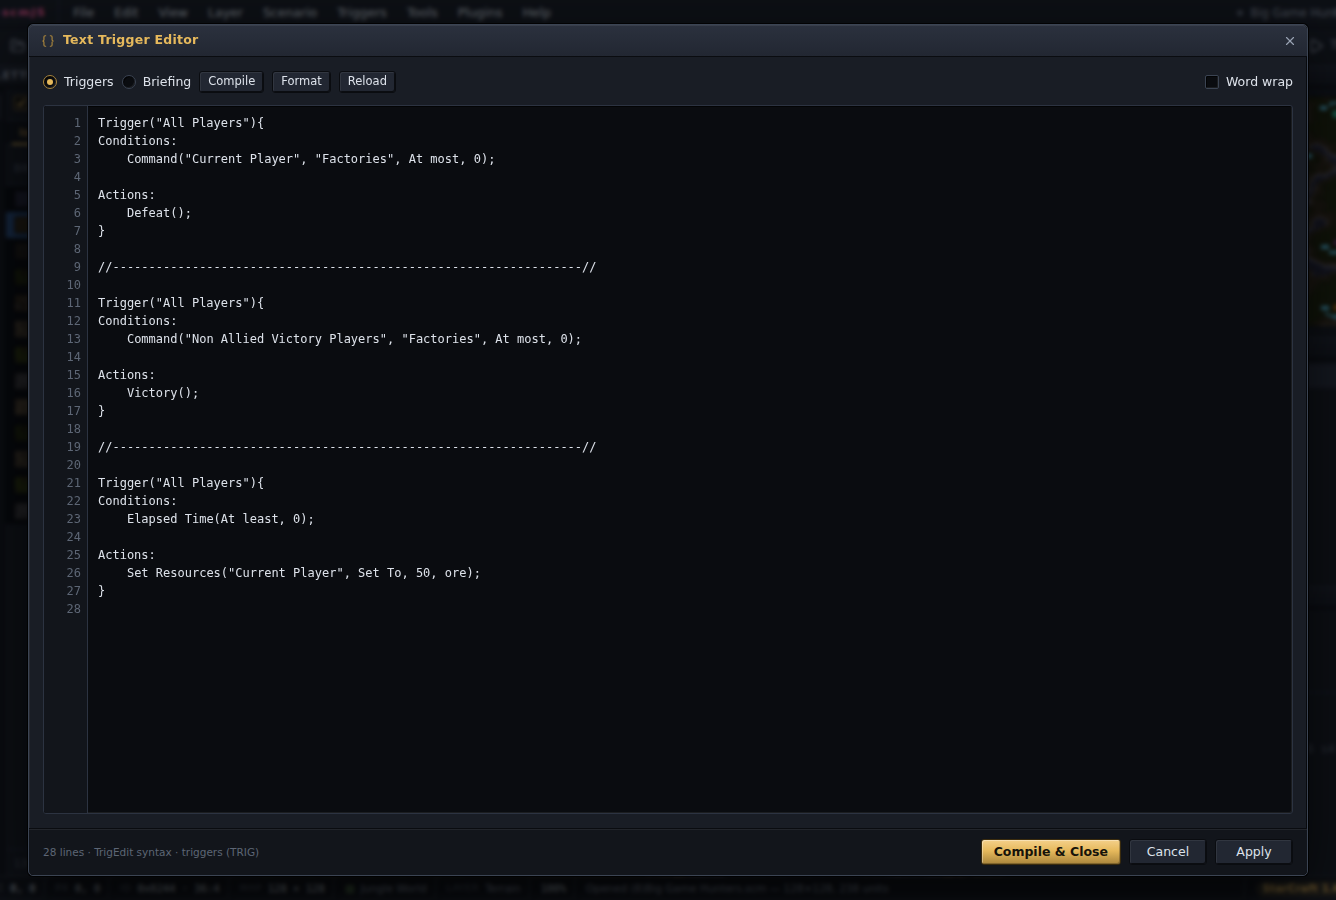
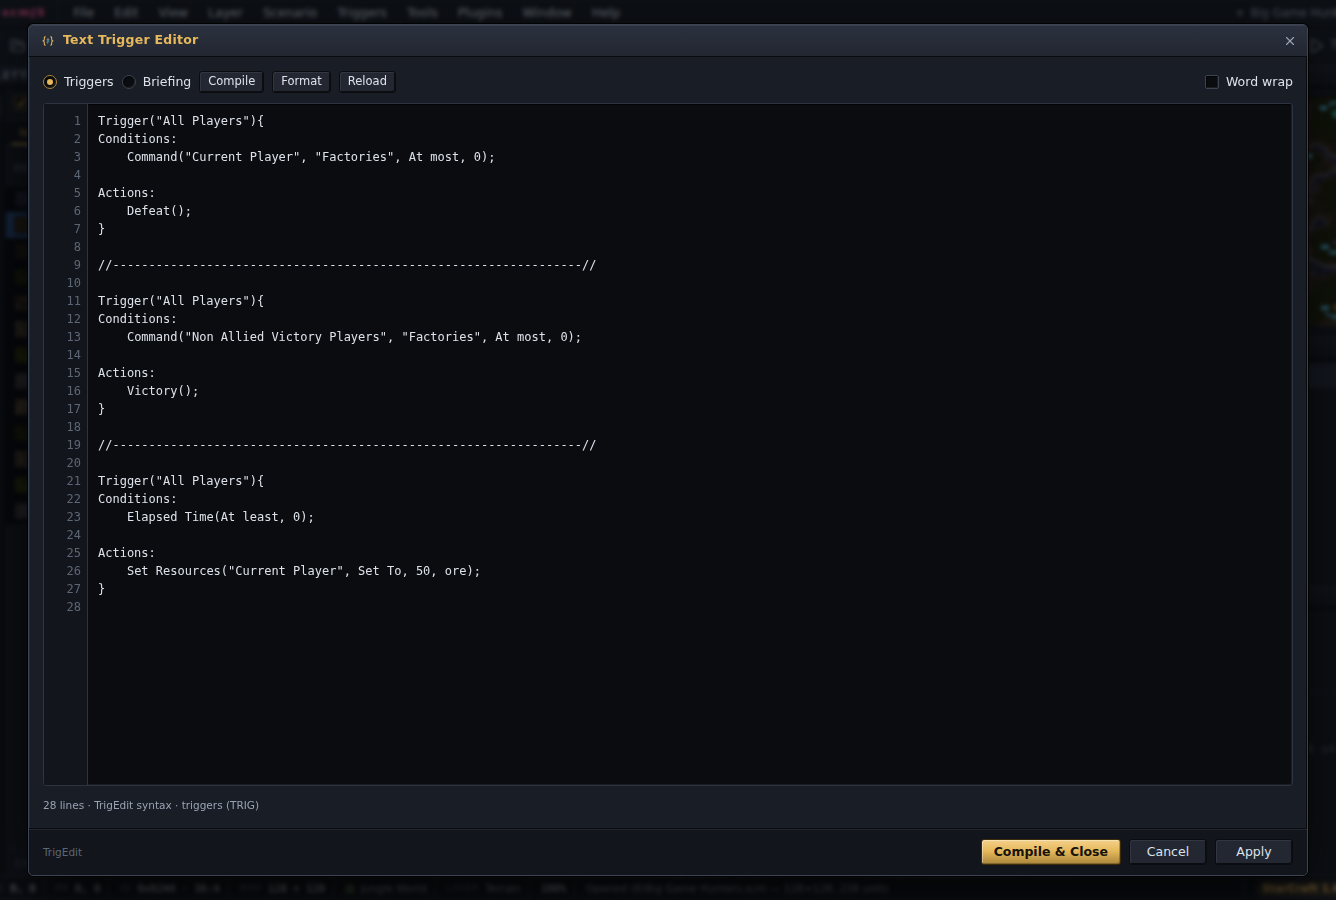
The Text Trigger Editor is the TrigEdit plugin, a default pinned to v1.0.0
The dialog moves out to github.com/scm-js/plugin-trigedit; the TrigEdit
text format stays here, since Import / Export, the plugin API and the AI
all read it. The plugin reproduces the dialog over api.triggers.text,
tx.triggers.fromText({ replace }) and api.triggers.claims, and offers the
"trigedit.text" slot in place of the built-in dialog's; scmjs.dev moves to
v1.14.5, which mounts its Explain / Write / Ask buttons there. Menu item,
Ctrl+Shift+T, the Shortcuts row, the dialog id and its CSS go with it, and
TrigEdit sits before TrigScript in the defaults so the latter's menu anchor
is there when it activates.

Claude-Session: https://claude.ai/code/session_018MPFAP9buLe6adi4NrYbr7

diff --git a/src/components/dialogs/TriggerDialogs.tsx b/src/components/dialogs/TriggerDialogs.tsx
@@ -1,21 +1,19 @@
 /**
- * The three trigger editors over `scenario.triggers` / `scenario.briefing`:
+ * The two trigger editors over `scenario.triggers` / `scenario.briefing`: Classic
+ * (StarEdit-style forms) and Mission Briefing share `TriggerListEditor`, a three-pane
+ * list ▸ trigger ▸ condition/action editor whose argument widgets are driven entirely by
+ * `data/triggerDefs.ts`. The third, the Text Trigger Editor (TrigEdit syntax), is the
+ * TrigEdit plugin (`github.com/scm-js/plugin-trigedit`) over `api.triggers.text`.
  *
- * - Classic (StarEdit-style forms) and Mission Briefing share `TriggerListEditor`, a
- *   three-pane list ▸ trigger ▸ condition/action editor whose argument widgets are driven
- *   entirely by `data/triggerDefs.ts`.
- * - Text (TrigEdit syntax) prints the list through `formats/triggers/text.ts` and parses
- *   it back on Compile.
- *
- * All three are dialog transactions (OK / Apply / Cancel over a working copy) like the
+ * Both are dialog transactions (OK / Apply / Cancel over a working copy) like the
  * settings dialogs, committed through `commitTriggersAtom`.
  */
 import { useMemo, useState, type ReactNode } from "react";
 import { useAtomValue, useSetAtom } from "jotai";
-import { ArrowDown, ArrowUp, Braces, Code2, Copy, MessageSquare, Plus, Trash2, Zap } from "lucide-react";
+import { ArrowDown, ArrowUp, Code2, Copy, MessageSquare, Plus, Trash2, Zap } from "lucide-react";
 import { commitTriggersAtom, locationsRevisionAtom, scenarioAtom, settingsRevisionAtom, triggersRevisionAtom } from "../../atoms/documentAtoms";
 import { pluginTriggerClaimsAtom, type PluginTriggerClaim } from "../../atoms/pluginAtoms";
-import { closeDialogAtom, openDialogAtom } from "../../atoms/uiAtoms";
+import { openDialogAtom } from "../../atoms/uiAtoms";
 import { claimAt, claimBadge, claimDescription, locateClaims, type ClaimedRange } from "../../plugins/claims";
 import {
   ACTION_DEFS, AI_SCRIPT_CHOICES, aiScriptCode, aiScriptId, BRIEFING_ACTION_DEFS, CHOICES, CONDITION_DEFS, DEATHS_TABLE_ADDRESS, PLAYER_GROUP_CHOICES,
@@ -27,7 +25,7 @@ import {
   ActionFlag, ConditionFlag, ConditionType, MAX_ACTIONS, MAX_CONDITIONS, PlayerGroup, SWITCH_COUNT, cloneTrigger,
   type ActionRecord, type ConditionRecord, type TriggerRecord,
 } from "../../formats/chk/sections/triggers";
-import { formatAction, formatCondition, formatTriggers, parseTriggers, summarizeTrigger, TriggerTextError, triggerComment, withComment, type TriggerNames } from "../../formats/triggers/text";
+import { formatAction, formatCondition, summarizeTrigger, triggerComment, withComment, type TriggerNames } from "../../formats/triggers/text";
 import { cuwpSlotLabel, CUWP_SLOTS } from "../../editor/cuwp";
 import { usedLocations } from "../../editor/locations";
 import { unitCustomName } from "../../editor/settings";
@@ -569,112 +567,6 @@ export function MissionBriefingDialog({ entry }: DialogProps) {
       footerLeft={<span>{local.length} briefing{local.length === 1 ? "" : "s"} · one per player, played before the map starts</span>}
     >
       <TriggerListEditor list={local} setList={setLocal} briefing names={names} scenario={scenario} initial={typeof entry.payload?.index === "number" ? entry.payload.index : undefined} />
-    </DialogFrame>
-  );
-}
-
-/* ── Text Trigger Editor (TrigEdit) ─────────────────────── */
-
-/** The map's triggers as text, with every plugin-generated run fenced in comments (parsed back as plain triggers). */
-function textOf(scn: Scenario, ranges: ClaimedRange[]): string {
-  const names = triggerNames(scn);
-  const runs = ranges.filter((r) => r.count > 0);
-  if (runs.length === 0) return formatTriggers(scn.triggers, names);
-  const parts: string[] = [];
-  let at = 0;
-  for (const { claim, start, count } of runs) {
-    if (start < at) continue; // overlapping claims: the first wins
-    parts.push(formatTriggers(scn.triggers.slice(at, start), names));
-    parts.push(`//== Generated by ${claim.spec.label}: ${count} trigger${count === 1 ? "" : "s"}. Edit them there instead — changes here take them out of its hands. ==//\n\n`);
-    parts.push(formatTriggers(scn.triggers.slice(start, start + count), names));
-    parts.push("//== End of the generated run ==//\n");
-    at = start + count;
-  }
-  parts.push(formatTriggers(scn.triggers.slice(at), names));
-  return parts.filter((p) => p !== "").join("\n");
-}
-
-/**
- * The Text Trigger Editor edits either list: TRIG, or — with `payload.briefing` or the
- * Briefing tab — MBRF in the same syntax with the briefing action set. Switching tabs
- * re-reads the map, so compile (Apply) first.
- */
-export function TextTriggerEditorDialog({ entry }: DialogProps) {
-  const scenario = useAtomValue(scenarioAtom);
-  useAtomValue(triggersRevisionAtom);
-  const claims = useAtomValue(pluginTriggerClaimsAtom);
-  const commit = useSetAtom(commitTriggersAtom);
-  const close = useSetAtom(closeDialogAtom);
-  const names = useNames(scenario);
-  const [briefing, setBriefing] = useState(entry.payload?.briefing === true);
-  const sourceOf = (scn: Scenario, brief: boolean) => (brief ? formatTriggers(scn.briefing, triggerNames(scn), true) : textOf(scn, locateClaims(claims, scn.triggers)));
-  const [form, setForm] = useScenarioForm(scenario, (scn) => ({ text: sourceOf(scn, briefing), error: null as TriggerTextError | null, status: "" }));
-  const [wrap, setWrap] = useState(false);
-  if (!scenario || !form || !names) return <NoMap entry={entry} title="Text Trigger Editor" icon={<Braces size={14} />} />;
-
-  const lines = form.text.split("\n").length;
-  const what = briefing ? "briefing" : "trigger";
-
-  /** Parse the text; on success replace the scenario's list. Returns whether it compiled. */
-  const compile = (): boolean => {
-    try {
-      const parsed = parseTriggers(form.text, names, briefing).map((t) => t.trigger);
-      if (briefing) applyBriefing(scenario, parsed); else applyTriggers(scenario, parsed);
-      commit();
-      setForm({ ...form, error: null, status: `Compiled ${parsed.length} ${what}${parsed.length === 1 ? "" : "s"}.` });
-      return true;
-    } catch (e) {
-      if (e instanceof TriggerTextError) setForm({ ...form, error: e, status: "" });
-      else setForm({ ...form, error: null, status: `Error: ${(e as Error).message}` });
-      return false;
-    }
-  };
-  const format = () => {
-    try {
-      const parsed = parseTriggers(form.text, names, briefing).map((t) => t.trigger);
-      setForm({ ...form, text: formatTriggers(parsed, names, briefing), error: null, status: "Formatted." });
-    } catch (e) {
-      if (e instanceof TriggerTextError) setForm({ ...form, error: e, status: "" });
-    }
-  };
-  const switchTo = (brief: boolean) => {
-    setBriefing(brief);
-    setForm({ text: sourceOf(scenario, brief), error: null, status: "" });
-  };
-
-  return (
-    <DialogFrame
-      dialogKey={entry.key}
-      title="Text Trigger Editor"
-      icon={<Braces size={14} />}
-      size="full"
-      slot={{ dialog: "textTriggerEditor", payload: { briefing }, fields: { text: { get: () => form.text, set: (text) => setForm({ ...form, text, error: null, status: "" }) } } }}
-      footerLeft={
-        form.error
-          ? <span className="trig-error">{form.error.message}</span>
-          : <span>{lines} lines · TrigEdit syntax · {briefing ? "mission briefing (MBRF)" : "triggers (TRIG)"}{form.status ? ` · ${form.status}` : ""}</span>
-      }
-      footer={
-        <>
-          <Button variant="primary" onClick={() => { if (compile()) close(entry.key); }}>Compile &amp; Close</Button>
-          <Button onClick={() => close(entry.key)}>Cancel</Button>
-          <Button onClick={compile}>Apply</Button>
-        </>
-      }
-    >
-      <div className="row">
-        <Check radio label="Triggers" checked={!briefing} onChange={() => switchTo(false)} title="TRIG — the map's triggers" />
-        <Check radio label="Briefing" checked={briefing} onChange={() => switchTo(true)} title="MBRF — the mission briefing, in the same syntax with the briefing actions" />
-        <Button size="sm" onClick={compile}>Compile</Button>
-        <Button size="sm" onClick={format}>Format</Button>
-        <Button size="sm" onClick={() => setForm({ ...form, text: sourceOf(scenario, briefing), error: null, status: "Reloaded from the map." })}>Reload</Button>
-        <span className="grow" />
-        <Check label="Word wrap" checked={wrap} onChange={(e) => setWrap(e.target.checked)} />
-      </div>
-      <div className={`code-editor ${wrap ? "wrap" : ""}`}>
-        <div className="gutter">{Array.from({ length: lines }, (_, i) => (form.error && form.error.line === i + 1 ? `▶${i + 1}` : String(i + 1))).join("\n")}</div>
-        <textarea spellCheck={false} value={form.text} onChange={(e) => setForm({ ...form, text: e.target.value, status: "" })} />
-      </div>
     </DialogFrame>
   );
 }

diff --git a/tests/plugins.test.ts b/tests/plugins.test.ts
@@ -1152,8 +1152,8 @@ describe("plugin lifecycle", () => {
     expect(store.get(installedPluginsAtom)).toEqual([{ spec: "github:d/p", enabled: false }]);
   });
 
-  it("ships eight defaults in order, scmjs.dev alone starting off, each pinned to a version", () => {
-    // Which eight, in which order, and which of them start on — the versions deliberately
+  it("ships nine defaults in order, scmjs.dev alone starting off, each pinned to a version", () => {
+    // Which nine, in which order, and which of them start on — the versions deliberately
     // not, since every plugin release would otherwise have to come back and edit this.
     expect(DEFAULT_REMOTE_PLUGINS.map((d) => pluginIdentity(d.spec))).toEqual([
       "github:scm-js/plugin-scm-scx",
@@ -1161,6 +1161,7 @@ describe("plugin lifecycle", () => {
       "github:scm-js/plugin-walkability",
       "github:scm-js/plugin-image-to-terrain",
       "github:scm-js/plugin-paint",
+      "github:scm-js/plugin-trigedit",
       "github:scm-js/plugin-trigscript",
       "github:scm-js/plugin-stamp-library",
       "github:scm-js/plugin-scmjs-dev",
@@ -1174,6 +1175,7 @@ describe("plugin lifecycle", () => {
       ["github:scm-js/plugin-walkability", true],
       ["github:scm-js/plugin-image-to-terrain", true],
       ["github:scm-js/plugin-paint", true],
+      ["github:scm-js/plugin-trigedit", true],
       ["github:scm-js/plugin-trigscript", true],
       ["github:scm-js/plugin-stamp-library", true],
       ["github:scm-js/plugin-scmjs-dev", false],

diff --git a/src/styles/dialogs.css b/src/styles/dialogs.css
@@ -379,44 +379,6 @@
   grid-template-columns: repeat(3, 1fr);
   gap: 2px 8px;
 }
-.code-editor {
-  flex: 1;
-  min-height: 0;
-  display: grid;
-  grid-template-columns: 44px 1fr;
-  background: var(--bg-0);
-  border: 1px solid var(--border);
-  box-shadow: var(--bevel-sunken);
-  border-radius: var(--radius);
-  overflow: hidden;
-  font-family: var(--font-mono);
-  font-size: 12px;
-  line-height: 18px;
-}
-.code-editor .gutter {
-  padding: 8px 6px;
-  text-align: right;
-  color: var(--text-faint);
-  background: var(--bg-1);
-  border-right: 1px solid var(--border);
-  overflow: hidden;
-  white-space: pre;
-  user-select: none;
-}
-.code-editor textarea {
-  resize: none;
-  border: none;
-  outline: none;
-  background: transparent;
-  padding: 8px 10px;
-  color: var(--text);
-  white-space: pre;
-  overflow: auto;
-  tab-size: 4;
-  font: inherit;
-  line-height: inherit;
-}
-
 /* about — fully pink-themed, mirroring the splash screen */
 .about-space {
   flex: none;
@@ -811,12 +773,6 @@
 .trig-arg .lbl {
   color: var(--text-dim);
   font-size: var(--fs-xs);
-}
-.trig-error {
-  color: var(--danger, #ff7a7a);
-}
-.code-editor.wrap textarea {
-  white-space: pre-wrap;
 }
 
 /* ── Script editor ───────────────────────────────────────── */

diff --git a/src/plugins/defaults.ts b/src/plugins/defaults.ts
@@ -52,9 +52,10 @@ export const DEFAULT_REMOTE_PLUGINS: readonly DefaultPlugin[] = [
   { spec: "github:scm-js/plugin-walkability@v1.1.2", enabled: true },
   { spec: "github:scm-js/plugin-image-to-terrain@v1.0.2", enabled: true },
   { spec: "github:scm-js/plugin-paint@v1.0.1", enabled: true },
+  { spec: "github:scm-js/plugin-trigedit@v1.0.0", enabled: true },
   { spec: "github:scm-js/plugin-trigscript@v2.5.1", enabled: true },
   { spec: "github:scm-js/plugin-stamp-library@v1.0.0", enabled: true },
-  { spec: "github:scm-js/plugin-scmjs-dev@v1.14.4", enabled: false },
+  { spec: "github:scm-js/plugin-scmjs-dev@v1.14.5", enabled: false },
 ];
 
 /**

diff --git a/src/components/dialogs/DialogHost.tsx b/src/components/dialogs/DialogHost.tsx
@@ -56,7 +56,6 @@ const REGISTRY: Record<DialogId, LazyExoticComponent<Dialog>> = {
   locationProperties: from(object, (m) => m.LocationPropertiesDialog),
   spriteProperties: from(object, (m) => m.SpritePropertiesDialog),
   triggerEditor: from(trigger, (m) => m.TriggerEditorDialog),
-  textTriggerEditor: from(trigger, (m) => m.TextTriggerEditorDialog),
   missionBriefing: from(trigger, (m) => m.MissionBriefingDialog),
   cuwpEditor: from(() => import("./CuwpDialog"), (m) => m.CuwpDialog),
   replaceTerrain: from(terrain, (m) => m.ReplaceTerrainDialog),

diff --git a/src/hooks/useHotkeys.ts b/src/hooks/useHotkeys.ts
@@ -114,7 +114,6 @@ export function useHotkeys() {
         const k = e.key.toLowerCase();
         if (k === "s") { e.preventDefault(); open("saveAs"); }
         if (k === "z" && !typing) { e.preventDefault(); const l = redo(); setStatus(l ? `Redid: ${l}` : "Nothing to redo"); }
-        if (k === "t") { e.preventDefault(); open("textTriggerEditor"); }
         if (k === ")" || k === "0") { e.preventDefault(); zoomToFit(); }
         return;
       }

diff --git a/src/components/dialogs/MiscDialogs.tsx b/src/components/dialogs/MiscDialogs.tsx
@@ -392,7 +392,6 @@ const HOTKEYS: [string, string][] = [
   ["Delete selection / stop placing, clear selection", "Del · Esc"],
   ["Cancel a plugin's map pick or tool", "Esc · right-click"],
   ["Trigger Editor", "Ctrl+T"],
-  ["Text Trigger Editor", "Ctrl+Shift+T"],
   ["Test Map", "Ctrl+F5"],
   ["Next / previous open map (desktop app)", "Ctrl+Tab · Ctrl+Shift+Tab"],
   ["Close map (desktop app)", "Ctrl+W"],

diff --git a/src/components/chrome/MenuBar.tsx b/src/components/chrome/MenuBar.tsx
@@ -374,7 +374,6 @@ function useMenus(): Menu[] {
       label: "Triggers",
       items: [
         dlg("Trigger Editor…", "triggerEditor", "Ctrl+T"),
-        dlg("Text Trigger Editor…", "textTriggerEditor", "Ctrl+Shift+T"),
         dlg("Mission Briefing Editor…", "missionBriefing"),
         dlg("Unit Properties Slots…", "cuwpEditor"),
         sep,

diff --git a/src/components/dialogs/ids.ts b/src/components/dialogs/ids.ts
@@ -21,7 +21,6 @@ export type DialogId =
   | "locationProperties"
   | "spriteProperties"
   | "triggerEditor"
-  | "textTriggerEditor"
   | "missionBriefing"
   | "cuwpEditor"
   | "replaceTerrain"

diff --git a/docs/plugins.md b/docs/plugins.md
@@ -680,7 +680,7 @@ Reading triggers, and everything needed to *show* one. Writing is `document.upda
 actions of bare numbers, so building one field by field means knowing which field each
 argument lives in (`defs.action(type).args` will tell you, but you have to ask). Writing
 the trigger in the text format instead means writing what the map maker would read in the
-Text Trigger Editor, with the names resolved against the open map for free.
+Text Trigger Editor (the TrigEdit plugin), with the names resolved against the open map for free.
 
 ```ts
 const source = `
@@ -707,7 +707,7 @@ existing record, not when producing a run of them.
 list is generated by this plugin. The Trigger Editor badges those rows (`spec.badge`, the
 plugin's id by default), locks them, and shows `spec.describe(index, list)` with a button
 that calls `spec.open(index, list)` (`spec.openLabel`, "Open <plugin name>" by default) in
-place of the form. The Text Trigger Editor fences the run in comments, and Import Triggers
+place of the form. The Text Trigger Editor fences the run in comments (through `claims`), and Import Triggers
 says what a replace would remove. The run is found by content: `spec.locate(list)` is asked
 with whatever list an editor holds (the map's, or a working copy with local inserts in
 it) and answers `{ start, count }`, or null when the records are not there because they
@@ -1180,8 +1180,8 @@ the fields each one lends:
 | Dialog id | Fields |
 | --- | --- |
 | `mapProperties` | `name`, `description` |
-| `textTriggerEditor` | `text` (the whole editor); `payload.briefing` says which list is shown |
 | `triggerEditor`, `stringEditor`, `playerSettings`, `missionBriefing` | none — a slot only |
+| `trigedit.text` (the TrigEdit plugin's Text Trigger Editor) | `text` (the whole editor); `payload.briefing` says which list is shown |
 
 A field is `{ get(), set(value) }`, read live: a slot mounted once sees every keystroke.
 `host.close()` closes the dialog. Return a cleanup from `mount` if you started anything;
@@ -1314,4 +1314,5 @@ above. Read the one nearest to what you are writing.
 | [scmscx.com](https://github.com/scm-js/plugin-scm-scx) | `document.open` with bytes fetched from a third party, what a site with no CORS headers means for a plugin, and the waiting kit end to end: a `statusLine` carrying a download's progress and its Cancel, `busy` over the list being replaced, `skeleton` rows and pictures, and `AbortSignal` on every request. |
 | [TrigScript](https://github.com/scm-js/plugin-trigscript) | `triggers.claim`, a dialog that keeps Escape for its own editor, the same workspace as a resizable panel beside the map (`ui.panel` with `resizable`), `ui.pickObject` to put a clicked location or unit into the code, `view.goTo` and `view.flash` from a Ctrl+click, a folder of files kept with the map through `document.extras`, and commands published for other plugins. |
 | [Stamp Library](https://github.com/scm-js/plugin-stamp-library) | A library kept in `api.storage` (one record per item, an index, and the quota answer from `set`); `clipboard.capture` for a clip that leaves the user's clipboard alone, `tx.paste` to lay it down as one undo step, `graphics.renderClip` for thumbnails and the ghost a `ui.mapTool` draws under the pointer; a floating panel that can move into the dock and back; JSON export and import, and one item as a line of text through the system clipboard. |
+| [TrigEdit](https://github.com/scm-js/plugin-trigedit) | The Text Trigger Editor as a plugin: `triggers.text` print and parse, `tx.triggers.fromText` with `replace`, `triggers.claims` to fence the runs other plugins generate, and a dialog that offers a slot of its own (`DialogSpec.slot`, `"trigedit.text"`) so the scmjs.dev buttons still have a place in it. |
 | [scmjs.dev](https://github.com/scm-js/plugin-scmjs-dev) | `api.services`: the sign-in held out as the `scmjs-dev.account` service for other plugins; a top-level menu of the plugin's own (`"Account"`) beside a submenu (`"Tools/AI"`); a status-bar cell; map storage through `document.export` / `document.open`. The "built-in feel" surfaces: a panel with `dock: "right"`, `ui.statusItem` for the assistant's phase, `ui.dialogSlot` buttons in Map Properties and the trigger editors, `view.flash` and an overlay for what a tool call touches. Calling another plugin's commands after the `"commands"` event, `document.create`, the settings family of `document.update`, `view.reveal` to follow the assistant's tool calls around the map with the `"view"` event as the sign the user took the view back, and a whole group of contributions put in and taken out again by one tick — every `add` and `register` keeps its `Disposable`. |

diff --git a/.claude/internals/plugins-catalogue.md b/.claude/internals/plugins-catalogue.md
@@ -188,3 +188,16 @@ full-size `renderClip` scaled to `view.tilePx`; a click is one `document.edit` w
 rect then marked as a paste marks it. It captures every part (`ALL_PARTS`) and lets the stamping ticks
 choose, so nothing is lost at save time; a foreign-tileset stamp can still lay down its objects.
 
+**TrigEdit** (`github.com/scm-js/plugin-trigedit`, a default that starts on since 2026-09-07) is the Text Trigger
+Editor, moved out of `TriggerDialogs.tsx` as a ~100-line dialog over the editor-owned format: `text.ts` there is the
+pure half (the comment fencing over `api.triggers.claims`, the error line off `TriggerTextError.line`, the gutter and
+status words; tests), `plugin.ts` the dialog — radios, Compile / Format / Reload, word wrap, a `<textarea>` with a
+gutter, the `Compile & Close` / `Cancel` / `Apply` footer — compiling with `tx.triggers.fromText(text, { replace: true })`
+(or `tx.briefing`) inside one `document.update`, so a parse error leaves the map untouched. It is the worked example
+for the two host additions it asked for, `triggers.claims()` and `DialogSpec.slot` (it offers `"trigedit.text"` with a
+live `text` field and a `briefing` payload getter, which is where scmjs.dev ≥ 1.14.5 mounts Explain / Write / Ask).
+Menu item `Triggers ▸ Text Trigger Editor…` with `after: "Trigger Editor…"` and the `Ctrl+Shift+T` hotkey, both
+formerly the editor's; TrigScript's `after: "Text Trigger Editor…"` anchors on it, hence its place before TrigScript in
+`defaults.ts`. The `trigedit.open` command takes `{ briefing?: boolean }`. No bundle weight moved (a textarea), so the
+case for the move is the growth it allows — highlighting, completion, Monaco — without the editor carrying it; if it
+grows Monaco it should take TrigScript's loaded copy through `api.services` rather than download a second one.

diff --git a/.claude/internals/triggers.md b/.claude/internals/triggers.md
@@ -17,7 +17,14 @@ install's Maps folder) carry briefings, and `tests/briefing.test.ts` decodes, ro
 the text format and re-encodes them; StarEdit sets hint bits (0x04 and the unit-type hints) on every
 briefing action that text cannot carry, so that test masks them. `editor/triggers.ts#actionStrings`
 is the one walker over an action's text / WAV arguments (the String Editor's usage list, the Sound
-Editor and Find all read it). The Text Trigger Editor's Briefing mode edits MBRF in the same syntax.
+Editor and Find all read it). The Text Trigger Editor is the **TrigEdit plugin** (`github.com/scm-js/plugin-trigedit`, a
+default since 2026-09-07, pinned in `defaults.ts`) over `api.triggers.text` / `tx.triggers.fromText({ replace })`; it
+moved out because the growth it wants — highlighting, completion, Monaco — is exactly what the editor stopped bundling,
+and the format stayed here because Import / Export, the plugin API and the AI all read it. Its Briefing mode edits MBRF in
+the same syntax. `api.triggers.claims(list?)` is what it fences the generated runs with, and its dialog offers the
+`"trigedit.text"` slot (`DialogSpec.slot`) in place of the `textTriggerEditor` `SlottedDialogId` the built-in had; the
+scmjs.dev plugin's Explain / Write / Ask buttons register there. `DialogId` no longer has `textTriggerEditor` — the one
+non-additive change the move made to the typings, with no consumer outside the organisation.
 The Classic editor's player pick carries an EPD box (`epdOf` / `addressOfEpd` over
 `DEATHS_TABLE_ADDRESS`) for EUD work.
 
